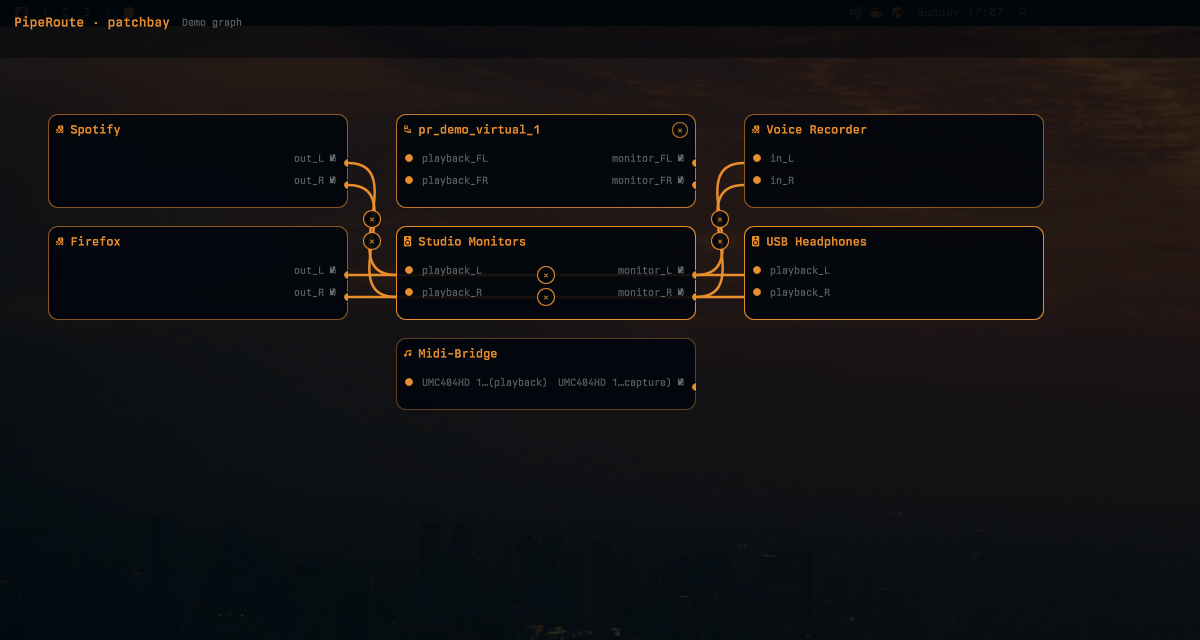
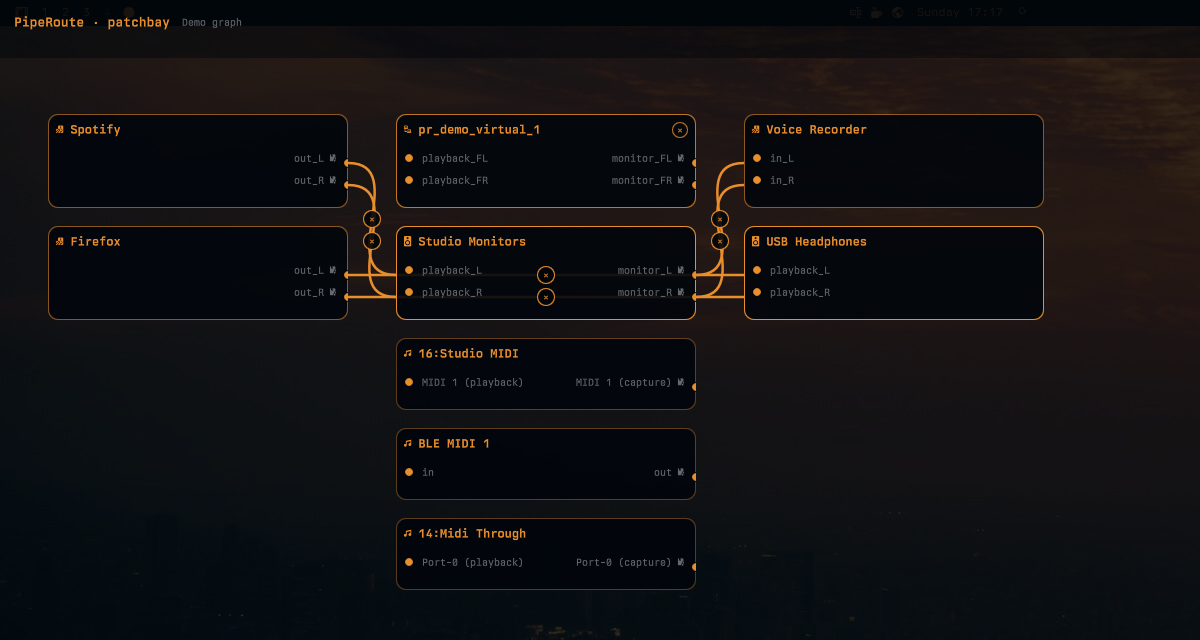
PipeRoute: split Midi-Bridge into per-client boxes like qpwgraph
ALSA clients aggregated by Midi-Bridge (Midi Through, UMC404HD 192k, ...)
now appear as their own MIDI nodes, with the ALSA client number prefix and
the real bridge port names preserved for linking. Refresh the preview with
the split boxes.

diff --git a/tests/test_ctl.py b/tests/test_ctl.py
@@ -37,9 +37,12 @@ dump = [
     {"id": 11, "type": "PipeWire:Interface:Node", "info": {"props": {
         "node.name": "Brave", "media.class": "Stream/Output/Audio"}}},
     {"id": 12, "type": "PipeWire:Interface:Node", "info": {"props": {
-        "node.name": "Midi-Bridge", "media.class": "Midi/Sink"}}},
+        "node.name": "Midi-Bridge", "media.class": "Midi/Bridge"}}},
     {"id": 14, "type": "PipeWire:Interface:Node", "info": {"props": {
         "node.name": "webcam", "media.class": "Video/Source"}}},
+    {"id": 15, "type": "PipeWire:Interface:Node", "info": {"props": {
+        "node.name": "bluez_midi.server", "node.description": "BLE MIDI 1",
+        "media.class": "Midi/Bridge"}}},
     {"id": 20, "type": "PipeWire:Interface:Port", "info": {"props": {
         "node.id": 10, "port.name": "playback_FL", "port.direction": "in"}}},
     {"id": 21, "type": "PipeWire:Interface:Port", "info": {"props": {
@@ -47,7 +50,17 @@ dump = [
     {"id": 22, "type": "PipeWire:Interface:Port", "info": {"props": {
         "node.id": 11, "port.name": "output_FL", "port.direction": "out"}}},
     {"id": 23, "type": "PipeWire:Interface:Port", "info": {"props": {
-        "node.id": 12, "port.name": "Port-0", "port.direction": "out"}}},
+        "node.id": 12, "port.name": "Midi Through: Port-0 (capture)",
+        "object.path": "alsa:seq:default:client_14:capture_0",
+        "port.direction": "out"}}},
+    {"id": 26, "type": "PipeWire:Interface:Port", "info": {"props": {
+        "node.id": 12, "port.name": "UMC404HD 192k: MIDI 1 (playback)",
+        "object.path": "alsa:seq:default:client_16:playback_0",
+        "port.direction": "in"}}},
+    {"id": 27, "type": "PipeWire:Interface:Port", "info": {"props": {
+        "node.id": 15, "port.name": "in", "port.direction": "in"}}},
+    {"id": 28, "type": "PipeWire:Interface:Port", "info": {"props": {
+        "node.id": 15, "port.name": "out", "port.direction": "out"}}},
     {"id": 25, "type": "PipeWire:Interface:Port", "info": {"props": {
         "node.id": 14, "port.name": "capture_1", "port.direction": "out"}}},
     {"id": 30, "type": "PipeWire:Interface:Link", "info": {"props": {
@@ -55,11 +68,17 @@ dump = [
 ]
 graph = ctl.build_graph(dump)
 by_name = {n["name"]: n for n in graph["nodes"]}
-assert set(by_name) == {"alsa_output.usb-UMC", "Brave", "Midi-Bridge"}, by_name.keys()
+assert set(by_name) == {
+    "alsa_output.usb-UMC", "Brave", "14:Midi Through", "16:UMC404HD 192k", "bluez_midi.server"
+}, by_name.keys()
 assert "webcam" not in by_name, "video nodes stay out of the patchbay"
+assert "Midi-Bridge" not in by_name, "the bridge is split into per-client boxes"
 assert by_name["Brave"]["kind"] == "stream"
-assert by_name["Midi-Bridge"]["kind"] == "midi"
-assert by_name["Midi-Bridge"]["outputs"][0]["name"] == "Midi-Bridge:Port-0"
+assert by_name["14:Midi Through"]["kind"] == "midi"
+assert by_name["14:Midi Through"]["outputs"][0]["name"] == "Midi-Bridge:Midi Through: Port-0 (capture)"
+assert by_name["16:UMC404HD 192k"]["inputs"][0]["name"] == "Midi-Bridge:UMC404HD 192k: MIDI 1 (playback)"
+assert by_name["bluez_midi.server"]["label"] == "BLE MIDI 1"
+assert by_name["bluez_midi.server"]["outputs"][0]["name"] == "bluez_midi.server:out"
 assert by_name["alsa_output.usb-UMC"]["label"] == "UMC 404HD"
 assert by_name["Brave"]["outputs"][0]["name"] == "Brave:output_FL"
 assert by_name["alsa_output.usb-UMC"]["inputs"][0]["name"] == "alsa_output.usb-UMC:playback_FL"

diff --git a/README.md b/README.md
@@ -48,8 +48,11 @@ A full-screen canvas on the monitor you clicked, with:
   one read), plus a 5-second safety poll for changes that model doesn't signal
   (such as a null sink created by another client).
 
-Audio and MIDI nodes are shown; webcam/video nodes stay out of the way. The
-compact menu still handles audio devices and streams only.
+Audio and MIDI nodes are shown; webcam/video nodes stay out of the way. ALSA
+MIDI clients aggregated by `Midi-Bridge` are split into per-client boxes such
+as `14:Midi Through` and `16:UMC404HD 192k`, matching qpwgraph, so the MIDI
+side of an audio interface is visible next to its audio ports. The compact
+menu still handles audio devices and streams only.
 
 ### Compact menu (right click)
 
